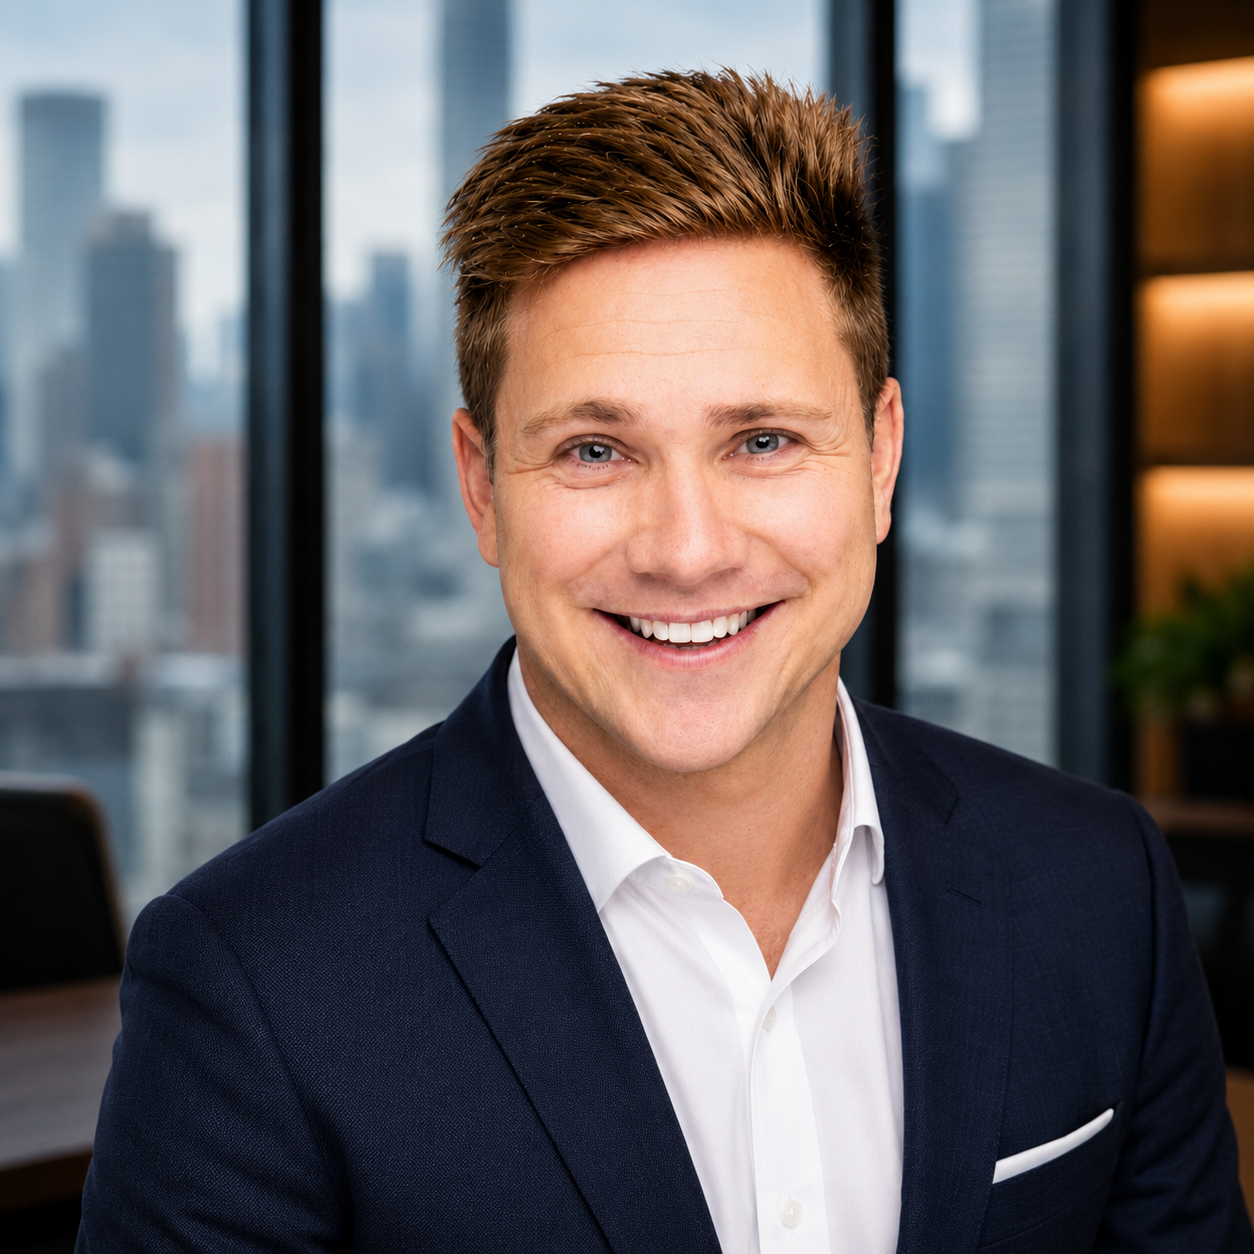
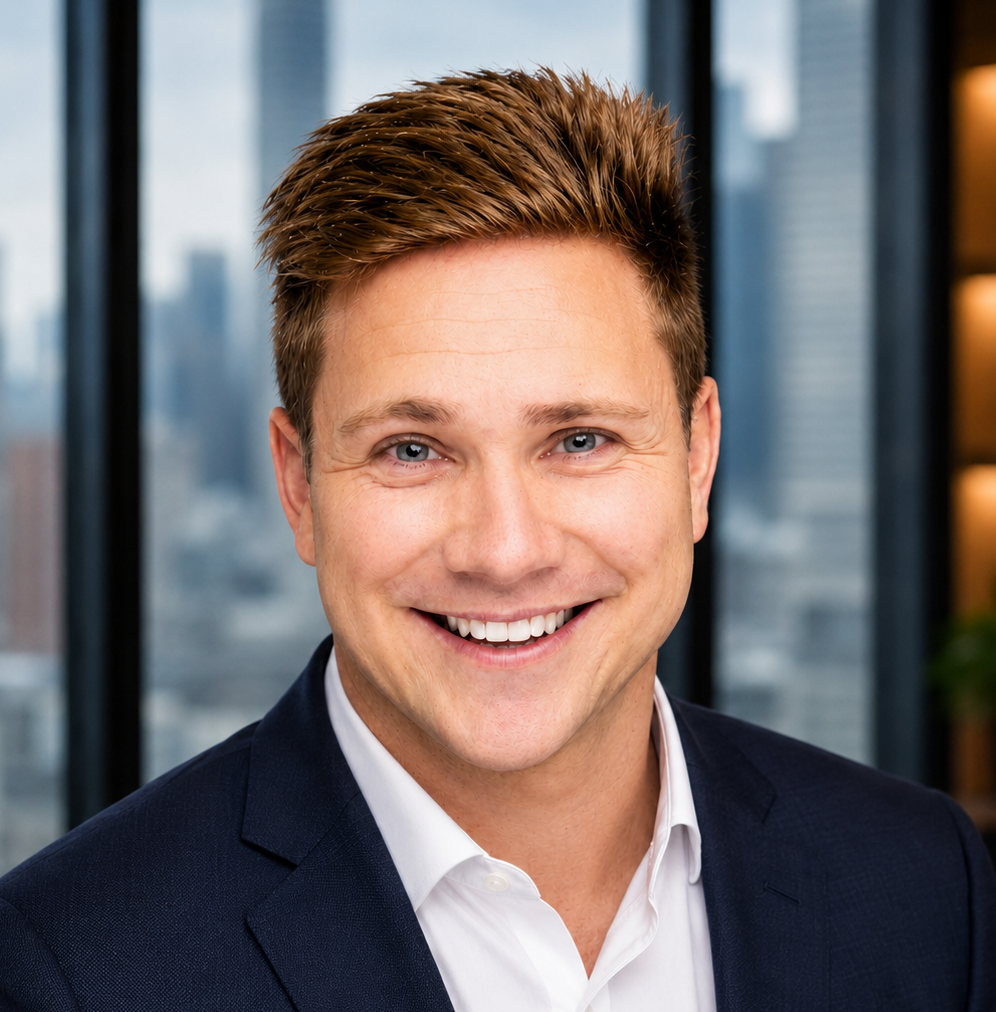
Update Jackson headshot (images/jackson.png) v2 — commit binary + bust cache (?v=20260517-1617)
Ensures GitHub Pages and browsers load the newly replaced PNG.

diff --git a/team.html b/team.html
@@ -87,7 +87,7 @@
 
                 <div class="team-card" data-member="jackson-dickfos">
                     <div class="team-photo">
-                        <img src="images/jackson.png?v=20260517" alt="Jackson Dickfos" data-linkedin-profile="jackson-dickfos" style="opacity: 1; filter: none;" onerror="this.src='logo.png'; this.style.opacity='0.3';">
+                        <img src="images/jackson.png?v=20260517-1617" alt="Jackson Dickfos" data-linkedin-profile="jackson-dickfos" style="opacity: 1; filter: none;" onerror="this.src='logo.png'; this.style.opacity='0.3';">
                     </div>
                     <div class="team-badge">
                         <img src="images/back-helmet.png" alt="Prytaneum Partners" class="badge-logo">
@@ -215,7 +215,7 @@ window.addEventListener("scroll", function() {
 // LinkedIn profile image URLs - using local images where available
 const linkedInImages = {
     'chris-morino': 'images/chris-morino1.jpeg',
-    'jackson-dickfos': 'images/jackson.png?v=20260517',
+    'jackson-dickfos': 'images/jackson.png?v=20260517-1617',
     'jeff-moyer': 'images/jeff-moyer.jpeg',
     'brad-ramsay': 'https://media.licdn.com/dms/image/v2/D5603AQEZvaSFyjttLg/profile-displayphoto-crop_800_800/B56ZiQpNEXHQAI-/0/1754773385233?e=1767830400&v=beta&t=P_dWoKCycRuqggDYbNb36crSktQUPKGJiGjjCZ9QGhs',
     'ian-miller': 'images/ian-miller.jpeg',

diff --git a/team-full.html b/team-full.html
@@ -129,7 +129,7 @@
 
                 <div class="team-card" data-member="jackson-dickfos">
                     <div class="team-photo">
-                        <img src="images/jackson.png?v=20260517" alt="Jackson Dickfos" style="opacity: 1; filter: none;" onerror="this.src='logo.png'; this.style.opacity='0.3';">
+                        <img src="images/jackson.png?v=20260517-1617" alt="Jackson Dickfos" style="opacity: 1; filter: none;" onerror="this.src='logo.png'; this.style.opacity='0.3';">
                     </div>
                     <div class="team-badge">
                         <img src="images/back-helmet.png" alt="Prytaneum Partners" class="badge-logo">
